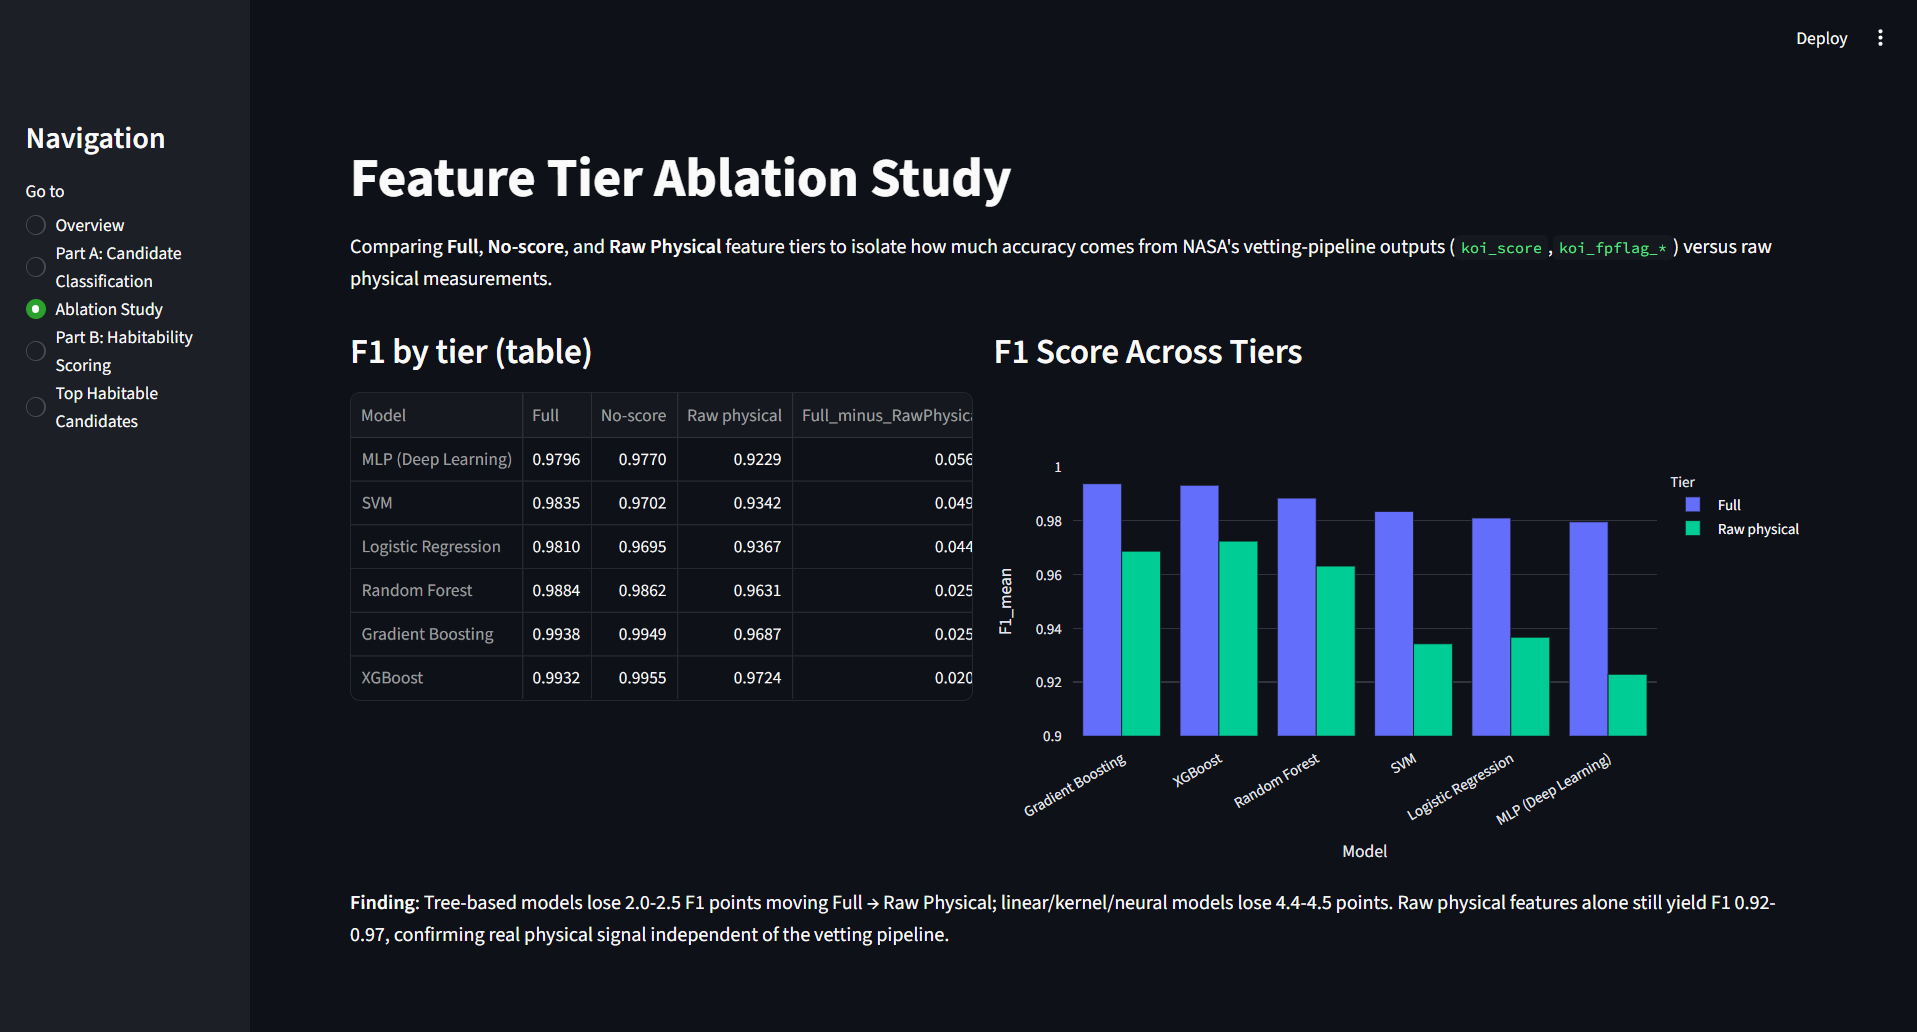
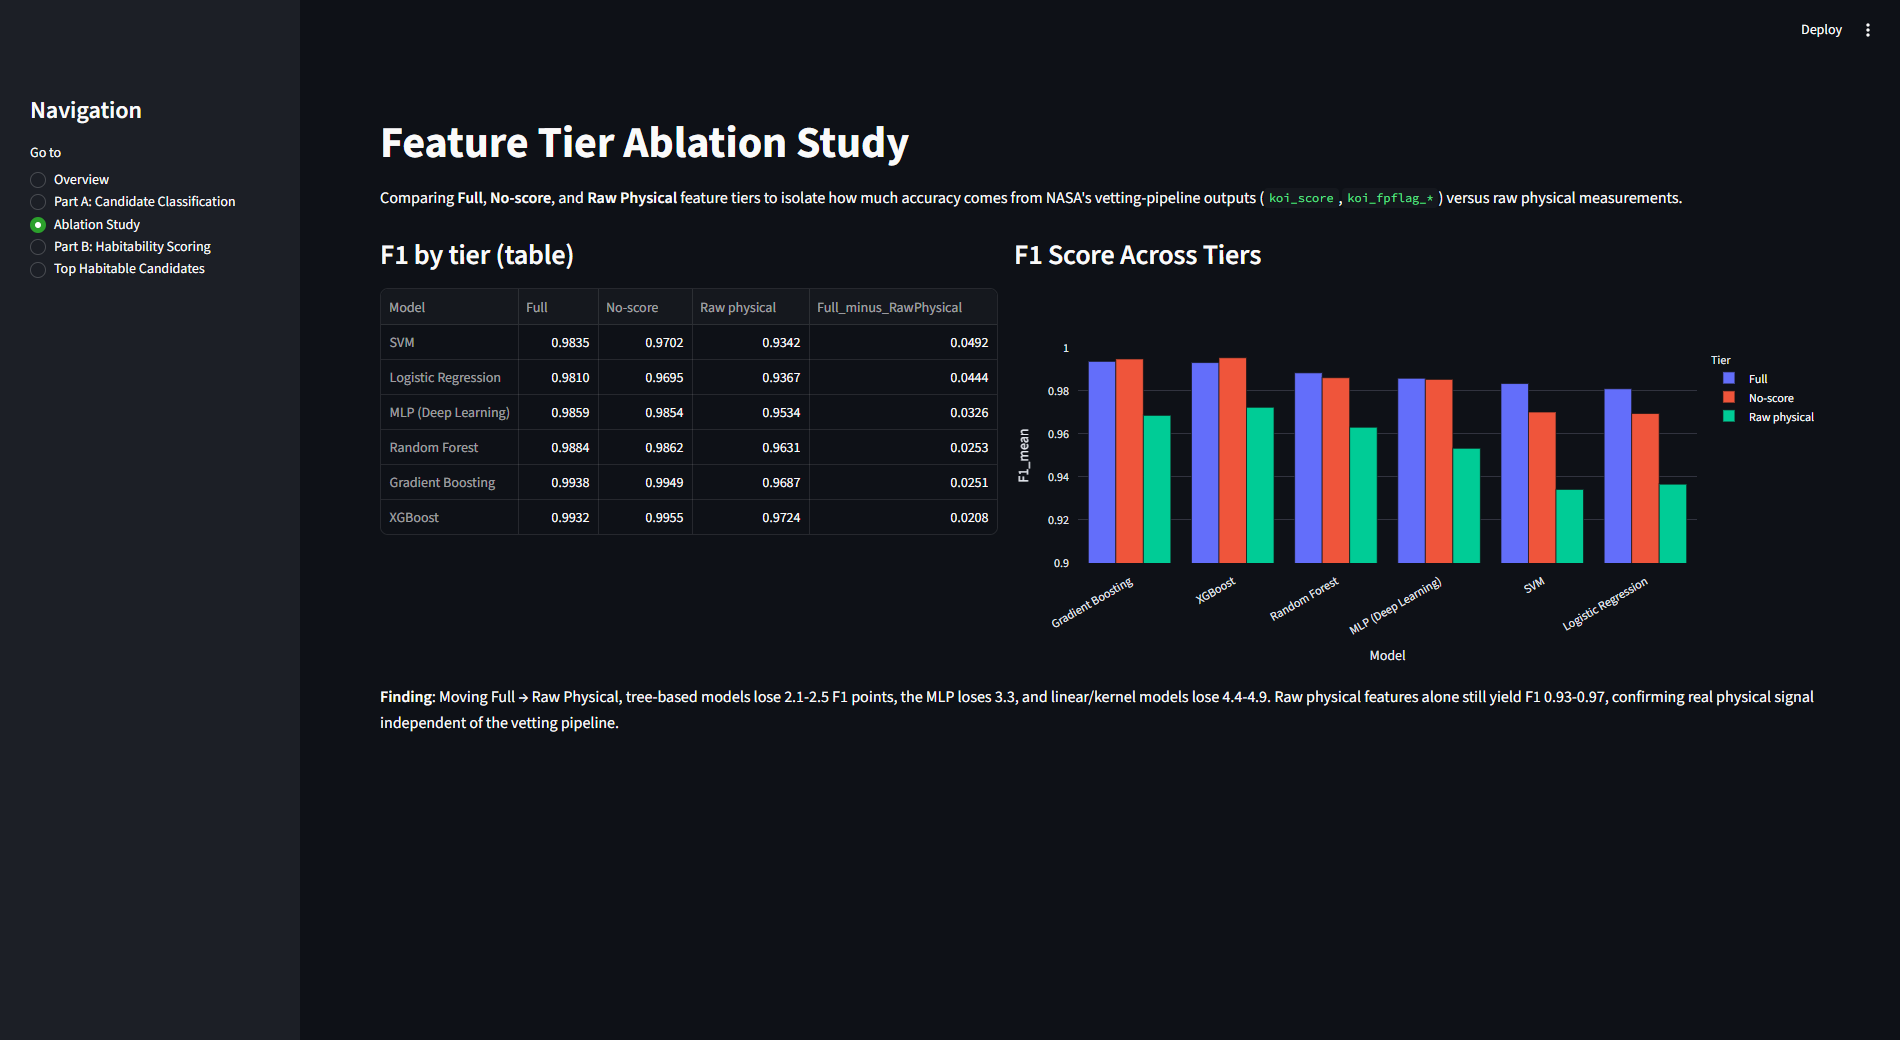
Update projects and details for November
- Lunar Crater Detection marked complete, with results, the audit,
  serving and monitoring, and new figures
- Exoplanet Habitability corrected to match its updated README, with
  the Next.js dashboard and refreshed screenshots
- Add xG-Spark and DataViz as in-progress projects
- Internship details from the GitHub profile, "Now building" line on
  the entrance, new stat coins and an expanded skills list

diff --git a/src/data/site.ts b/src/data/site.ts
@@ -5,7 +5,7 @@ export const site = {
   shortName: "Aditya Patra",
   role: "ML Engineer in the making",
   tagline:
-    "I build machine-learning systems end to end, from messy public data to models I can explain and services that run. Lately that means satellites, Formula 1 and exoplanets.",
+    "I build machine-learning systems end to end, from messy public data to models I can explain and services that run. Lately that means satellites, Formula 1, exoplanets and craters on the Moon.",
   location: "Pune, India",
   // Optional portrait for the hero and about sections, e.g. "/me.jpg" in public/. Leave null for the monogram.
   photo: null as string | null,
@@ -15,8 +15,8 @@ export const site = {
     note: "3rd year",
   },
   now: {
-    project: "orbitguard",
-    text: "Now building OrbitGuard: collision screening for 14k+ objects in orbit",
+    project: "xg-spark",
+    text: "Now building xG-Spark: an expected-goals model on Apache Spark",
   },
   links: {
     github: "https://github.com/aditya-patra1011",
@@ -35,7 +35,7 @@ export const experience: Experience[] = [
     period: "Jun 2026 – Aug 2026",
     role: "ML & Data Intern",
     org: "CloudExperts.co",
-    text: "Reviewed production code for a RAG web app on React/TypeScript and AWS Lambda; worked on stock market analysis.",
+    text: "Built a Nifty 500 stock screener and broker automation on Zerodha's Kite Connect API, an anomaly-detection pipeline for warehouse sensor data, and reviewed a RAG web app's code.",
   },
   {
     period: "2024 – 2028",
@@ -75,15 +75,15 @@ export const experience: Experience[] = [
 export const stats = [
   { value: "14K+", label: "Objects screened", note: "OrbitGuard" },
   { value: "23", label: "F1 circuits modelled", note: "BoxBox" },
-  { value: "9.5K", label: "Kepler objects classified", note: "Kepler" },
-  { value: "0.99", label: "ROC-AUC, held-out set", note: "Kepler" },
+  { value: "7K", label: "Planets scored for habitability", note: "Exoplanet Habitability" },
+  { value: "19%", label: "Lower next-day AQI error", note: "AQI Forecasting" },
 ];
 
 export const services = [
   {
     icon: "ml",
     title: "ML Engineering",
-    text: "Models that go past the notebook: validated, explained with SHAP, tested, and packaged so someone else can run them.",
+    text: "Models that go past the notebook: validated on data they never saw, explained with SHAP, tested, and served with FastAPI, ONNX and Docker.",
   },
   {
     icon: "stats",
@@ -93,7 +93,7 @@ export const services = [
   {
     icon: "dash",
     title: "Dashboards & Apps",
-    text: "Interactive Plotly Dash and Streamlit apps that turn a model's output into something people can explore.",
+    text: "Interactive Plotly Dash, Streamlit and Next.js apps that turn a model's output into something people can explore.",
   },
 ];
 
@@ -101,8 +101,11 @@ export const skills: { group: string; items: string[] }[] = [
   { group: "Languages", items: ["Python", "SQL (MySQL)", "Java", "C"] },
   {
     group: "ML & data",
-    items: ["scikit-learn", "XGBoost", "TensorFlow/Keras", "SHAP", "pandas", "NumPy", "SciPy", "lifelines"],
+    items: ["scikit-learn", "XGBoost", "PyTorch", "TensorFlow/Keras", "SHAP", "pandas", "NumPy", "SciPy", "PySpark"],
   },
-  { group: "Apps & viz", items: ["Plotly Dash", "Streamlit", "Plotly", "Matplotlib", "Seaborn"] },
-  { group: "Engineering", items: ["Git & GitHub", "pytest", "Jupyter", "MySQL Workbench"] },
+  { group: "Apps & viz", items: ["Plotly Dash", "Streamlit", "Next.js", "Plotly", "Matplotlib"] },
+  {
+    group: "Engineering",
+    items: ["FastAPI", "ONNX", "Docker", "PostgreSQL", "GitHub Actions", "pytest", "Git"],
+  },
 ];

diff --git a/src/content/projects/lunar-crater-detection.md b/src/content/projects/lunar-crater-detection.md
@@ -1,32 +1,69 @@
 ---
 title: Lunar Crater Detection
-summary: Detects impact craters in lunar elevation data and tests the detectors on terrain they never saw during training.
+summary: Detects impact craters in lunar elevation data, tests the detectors on terrain they never saw, and serves the best model from ONNX behind a FastAPI service with calibrated confidence and drift monitoring.
 tier: featured
-status: in-progress
-order: 4
+status: shipped
+order: 2
 year: 2026
 domains: [Space, Computer Vision]
-stack: [Python, PyTorch, U-Net, GitHub Actions]
+stack: [Python, PyTorch, U-Net, ONNX, FastAPI, pytest, GitHub Actions]
 highlights:
-  - Geographic train/test split with buffer zones, not random tiles
+  - F1 0.539 on held-out terrain, against 0.369 for a classical baseline
+  - About 81% of detections are real craters, after a by-eye audit
+  - Calibrated confidence and drift monitoring on the served model
 repo: https://github.com/aditya-patra1011/lunar_crater_detection
+cover: /projects/lunar-tiles.png
 ---
 
 ## The problem
 
 Landing-site assessment, terrain-relative navigation and surface dating all need crater maps, but
 cataloguing craters by hand doesn't scale. Crater detectors already exist, so this project focuses on what
-they often skip: a reproducible pipeline, evaluation on held-out terrain, confidence estimates and a deployable service.
+they often skip: a reproducible pipeline, honest evaluation on unseen terrain, confidence estimates and a
+deployable service.
 
-## Plan
+## Approach
 
 1. Tile LRO/LOLA elevation data and rasterise crater labels from the Robbins catalogue.
-2. Split by geography, using blocked regions with a buffer, so test terrain is unseen.
-3. Compare a classical baseline, a U-Net, a multi-scale U-Net and an object detector.
-4. Convert predictions into georeferenced craters and serve the best model behind a small API.
+2. Split by geography, using blocked regions with a buffer, so test terrain is never seen in training or tuning.
+3. Compare a classical radial-slope filter, a U-Net and a multi-scale U-Net.
+4. Convert predictions into georeferenced craters: latitude, longitude and diameter.
+5. Evaluate by crater size against the catalogue, then audit the unmatched detections by eye.
+6. Export to ONNX, serve with FastAPI, and monitor input and prediction drift.
 
-## Status
+![Geographic split: training, validation and test regions](/projects/lunar-split-map.png)
 
-The repository skeleton and CI are in place. No models have been trained yet.
+## Results
 
-<!-- TODO: update as training lands. -->
+On 429 test tiles from 7 regions never used for training or tuning (circle IoU ≥ 0.5):
+
+| Detector | F1, all | F1, over 8 km |
+| --- | ---: | ---: |
+| Classical radial-slope filter | 0.369 | 0.443 |
+| U-Net | 0.533 | 0.351 |
+| **Served: U-Net plus a large-crater network** | **0.539** | **0.562** |
+
+![Catalogue craters found (blue) and missed (yellow), with unmatched detections (red)](/projects/lunar-detections.png)
+
+## What I found
+
+- **Learning beats hand-written rules,** but the U-Net alone stitched arcs of small craters into false
+  large ones. A second output trained only on craters 6 km and wider fixed that.
+- **Small craters are the main gap.** Craters of 1–2 km are 70% of the test set, and 38% of them are found.
+- **Precision is better than the catalogue says.** Of 60 unmatched detections checked by eye, 28% were real
+  craters, which puts precision near 0.81 rather than 0.735.
+- **The tile edge causes most large false alarms.** Circles running off the edge match the catalogue about
+  half as often as circles inside the tile.
+- **Confidence is calibrated** on unseen data, off by 0.014 on average, and **drift monitoring** stays quiet
+  on normal tiles while flagging heights in the wrong units or smoothed data.
+
+## Serving
+
+The networks are exported to ONNX and served with FastAPI. Each detection comes back with latitude,
+longitude, diameter and a calibrated confidence, a `/monitoring` report tracks drift against the training
+data, and the API's home page is a small dashboard. CI runs the tests on every pull request.
+
+## Limitations
+
+The Robbins catalogue is roughly complete only above 1–2 km, so a detection with no match may still be a real
+crater: reported precision is a lower bound. Craters over 32 km need bigger tiles than the ones used here.

diff --git a/src/content/projects/exoplanet-habitability.md b/src/content/projects/exoplanet-habitability.md
@@ -1,15 +1,16 @@
 ---
 title: Exoplanet Habitability
-summary: Predicts which unresolved Kepler candidates are likely real, then scores every planet for habitable-zone status and Earth similarity.
+summary: Predicts which of Kepler's unresolved candidates are likely real planets, then scores over 7,000 planets for habitable-zone status and Earth similarity. Presented in a Streamlit app and a Next.js site.
 tier: flagship
 status: shipped
 order: 3
 year: 2026
 domains: [Space, Data Science]
-stack: [Python, scikit-learn, XGBoost, TensorFlow, SHAP, Streamlit]
+stack: [Python, scikit-learn, XGBoost, TensorFlow, SHAP, Streamlit, Next.js]
 highlights:
-  - 3.21% of evaluated planets fall in the conservative habitable zone
-  - Confirmed vs predicted-real candidates agree (3.22% vs 3.16%)
+  - 1,267 of 1,977 unresolved Kepler candidates predicted likely real
+  - 38 planets both likely rocky and in a habitable zone (31 confirmed, 7 candidates)
+  - Ablation shows NASA's vetting flags add 2–5 F1 points over raw physics
 repo: https://github.com/aditya-patra1011/exoplanet-habitability-project
 cover: /projects/habitability-ablation.png
 ---
@@ -22,24 +23,41 @@ unresolved candidate signals are likely real planets, and how many of those coul
 ## Part A: candidate classification
 
 I trained six models (random forest, XGBoost, gradient boosting, SVM, logistic regression and an MLP) on
-7,587 labelled KOIs. I used 5-fold group-aware cross-validation and compared three feature tiers to separate real signal from vetting-flag leakage.
+7,587 labelled KOIs, with 5-fold cross-validation grouped by host star so no star's planets leak between
+folds.
+
+- **Best full-feature model:** gradient boosting, **F1 = 0.9938**, just ahead of XGBoost (0.9932).
+- **Applied to the 1,977 candidates**, it predicts **1,267** are likely real planets.
+- **A three-tier ablation** (full / no-score / raw physical) shows how much comes from NASA's own vetting
+  outputs: removing them costs tree models 2.1–2.5 F1 points, the MLP 3.3, and linear or kernel models
+  4.4–4.9.
+
+These scores are measured on labelled rows and may overstate accuracy on candidates: 98% of labelled false
+positives carry a vetting flag, against only 0.15% of candidates.
 
 ## Part B: habitability scoring
 
-Confirmed planets were merged with candidates predicted to be real. Each planet was then scored with:
+The 5,737 confirmed planets with the needed measurements were merged with the 1,267 predicted-real
+candidates, for **7,004 planets**. Each was scored with:
 
-- **Habitable-zone status** from insolation flux, using Kopparapu-derived bounds (conservative 0.36–1.11 S⊕, optimistic 0.25–1.5 S⊕) and a rocky-planet radius cut (< 1.6 R⊕)
-- **A simplified Earth Similarity Index**
+- **Habitable-zone status** from insolation flux, using Kopparapu-derived bounds (conservative 0.36–1.11 S⊕,
+  optimistic 0.25–1.5 S⊕) and a rocky-planet radius cut (< 1.6 R⊕)
+- **A simplified Earth Similarity Index**, from radius and equilibrium temperature
 
-The scoring recovers well-known habitable-zone planets such as TRAPPIST-1 e/f/g, Proxima Centauri b
-and Kepler-186f. That is a useful sanity check.
+**3.21%** of planets fall in the conservative habitable zone (4.85% including the optimistic zone), and
+**38** are both likely rocky and in a zone. Some well-known planets rank near the top, such as Kepler-438 b
+(1st) and TRAPPIST-1 d (3rd), while others sit much lower, such as TRAPPIST-1 e (88th). The simplified
+index only uses two inputs, so it is a rough guide rather than a verdict.
+
+## Dashboards
+
+Both dashboards are built from the same processed data: an interactive Streamlit app, and a static Next.js
+site with overview, Part A, ablation, Part B and top-candidate pages.
+
+![Insolation flux vs equilibrium temperature, coloured by Earth Similarity Index](/projects/habitability-scatter.png)
+
+![Top habitable candidates ranked by Earth Similarity Index](/projects/habitability-top.png)
 
 ## Data
 
 NASA Exoplanet Archive via its TAP service: the KOI cumulative table (9,564 rows) and PSCompPars (6,366 rows).
-
-## Dashboard
-
-![Insolation flux vs equilibrium temperature, coloured by habitable-zone status](/projects/habitability-scatter.png)
-
-![Top habitable candidates ranked by Earth Similarity Index](/projects/habitability-top.png)

diff --git a/src/content/projects/dataviz.md b/src/content/projects/dataviz.md
@@ -1,0 +1,32 @@
+---
+title: DataViz
+summary: A Streamlit web app that turns data you type, paste or upload into cleaning reports, interactive charts and plain-English insights.
+tier: more
+status: in-progress
+order: 1
+year: 2026
+domains: [Data Apps, Data Science]
+stack: [Python, Streamlit, pandas, Plotly, pytest, GitHub Actions]
+repo: https://github.com/aditya-patra1011/DataViz
+---
+
+## The idea
+
+Most people who need a quick chart don't want to write code. DataViz takes data typed into a table, pasted
+from a spreadsheet or uploaded as CSV/Excel, cleans and checks it, and turns it into interactive charts.
+
+## Design
+
+The Streamlit pages only handle presentation. All the logic (ingesting, cleaning, profiling, statistics,
+chart recommendations and storage) lives in a pure-Python `core/` package that never imports Streamlit, so
+every piece is tested on its own and could sit behind a different front end, such as a REST API. Every pull
+request is linted and tested by GitHub Actions.
+
+## Progress
+
+- **Done:** project setup and CI; data input (manual table, paste, CSV/Excel upload); a cleaning and
+  validation pipeline with type detection, missing-value handling and outlier checks
+- **In progress:** interactive visualisations (bar, line, pie, scatter, histogram, box plot, heatmap)
+- **Next:** a chart recommender with auto-insights, saved datasets with export, and deployment
+
+<!-- TODO: add a screenshot and a live link once it's deployed. -->

diff --git a/src/content/projects/xg-spark.md b/src/content/projects/xg-spark.md
@@ -1,0 +1,26 @@
+---
+title: xG-Spark
+summary: An expected-goals (xG) model for football built end to end on Apache Spark, from StatsBomb's open event data to a partitioned Parquet lakehouse.
+tier: more
+status: in-progress
+order: 0
+year: 2026
+domains: [Sport, Big Data]
+stack: [Python, PySpark, Parquet, StatsBomb Open Data]
+repo: https://github.com/aditya-patra1011/xG-Spark
+---
+
+## The problem
+
+Expected goals (xG) estimates how likely a shot is to become a goal from where and how it was taken. This
+Big Data Analytics project builds an xG model as a full PySpark pipeline instead of a single notebook.
+
+## Progress
+
+- **Phase 0:** project setup with a local PySpark environment
+- **Phase 1:** a parallel downloader for StatsBomb's open event data
+- **Phase 2:** Spark ingestion into a partitioned Parquet "bronze" layer
+
+Feature engineering, the model and its evaluation come next.
+
+<!-- TODO: update with results and a screenshot when the project is finished. -->
